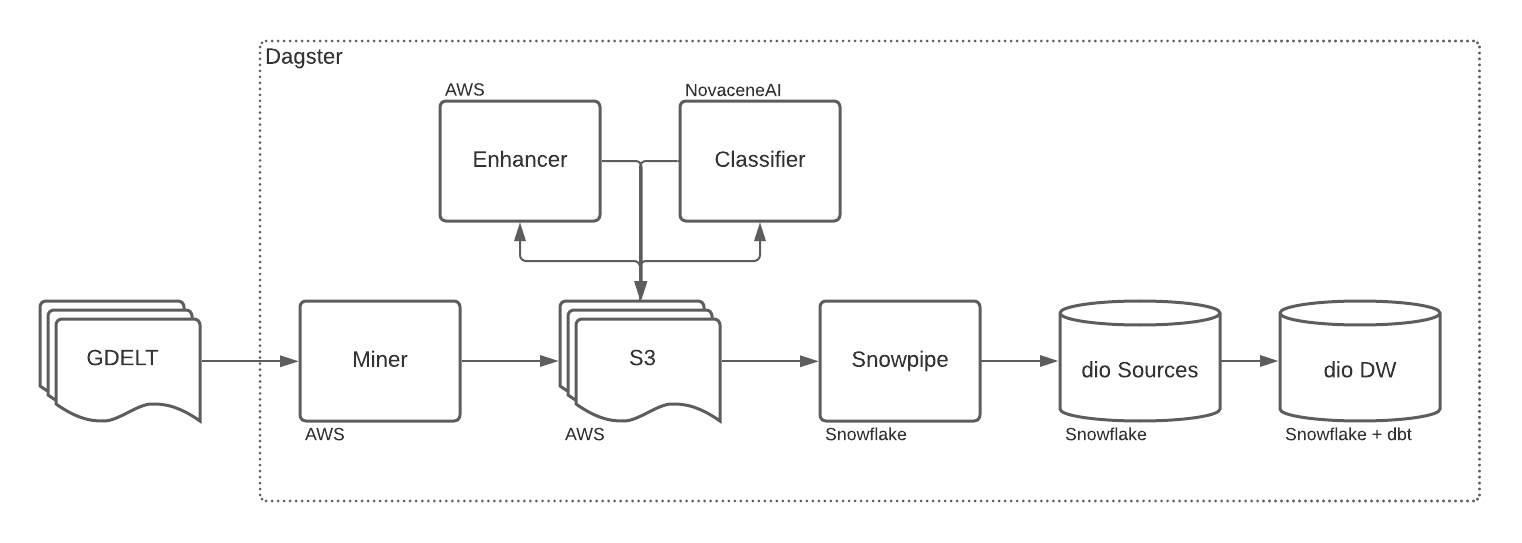
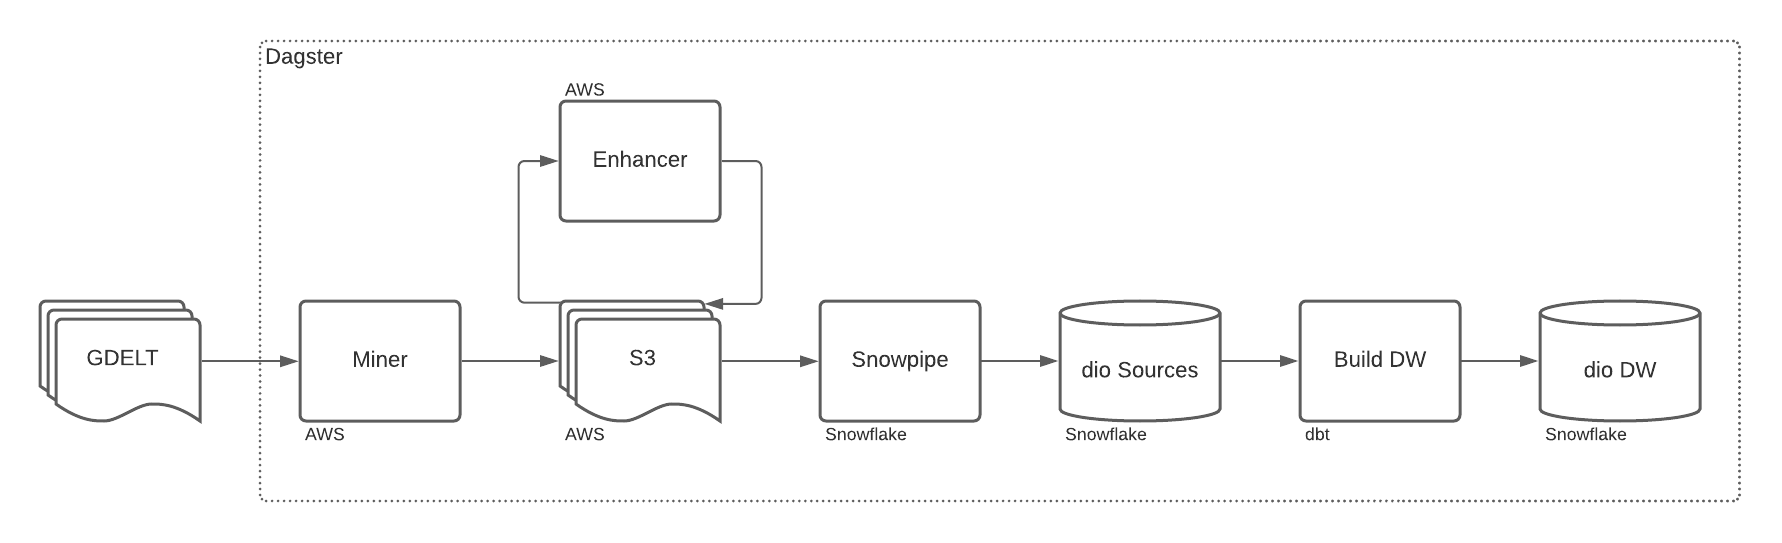
Improving README

diff --git a/README.md b/README.md
@@ -49,9 +49,12 @@ The following entities are exposed as the final output of our architecture.
 
 Here are the main components of the discursus core architecture:
 
-- A miner that sources events from the GDELT project (https://www.gdeltproject.org/) and saves it to AWS S3.
+- A miner that sources events from the [GDELT project](https://www.gdeltproject.org/) and saves it to AWS S3.
+- An enhancement process that scrapes the article's metadata and saves it to AWS S3.
+- An ML enrichment process that classifies article's relevancy using a custom ML algorithm hosted on [Novacene.ai](https://novacene.ai/) and saves results to AWS S3.
+- A suite of snowpipes that loads S3 data to Snowflake.
 - A dbt project that creates a data warehouse which exposes protest events.
-- A Dagster orchestrator that schedules the mining and transformation jobs.
+- A Dagster app that orchestrates all data transformation jobs and the creation of assets.
 
 
 &nbsp;
@@ -63,6 +66,7 @@ For now, to spin up an instance of discursus Core, you will first need to have y
 - An AWS S3 bucket to hold the events, articles and enhancements.
 - An AWS ec2 instance to run discursus.
 - A Snowflake account to stage data from S3, perform transformations of data and expose entities.
+- A Novacene.ai account to perform ML enrichments.
 
 On Snowflake, you will need to create a few objects prior to running your instance:
 - Source tables to stage the mined events.
